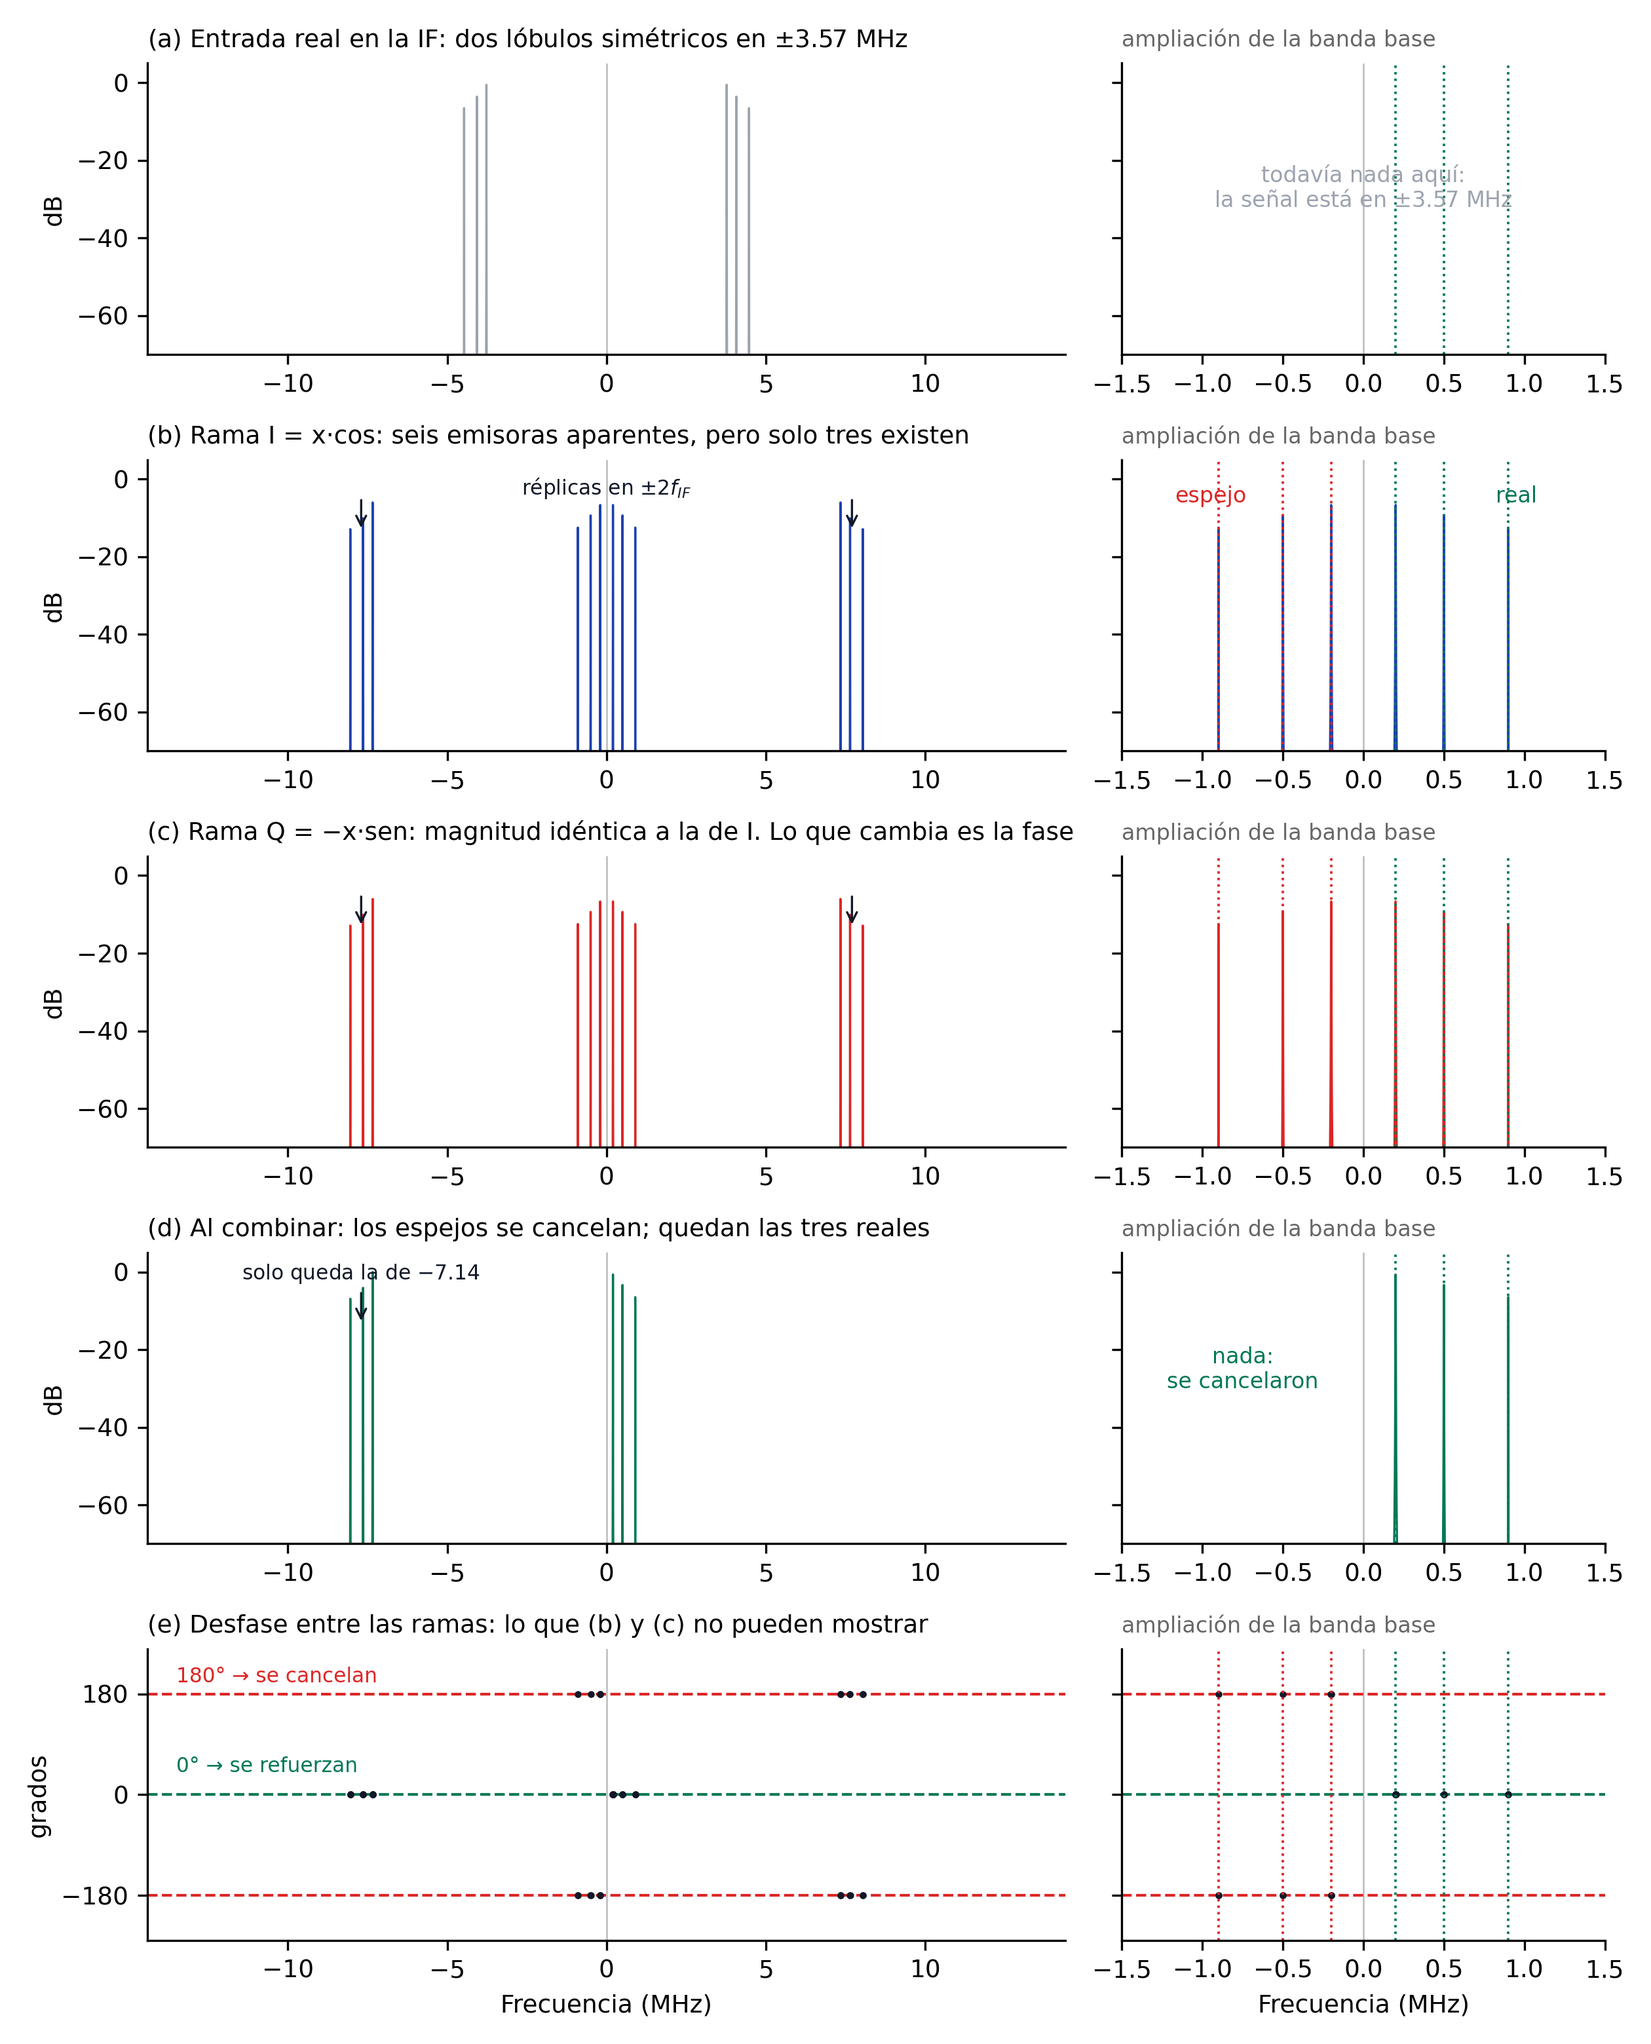
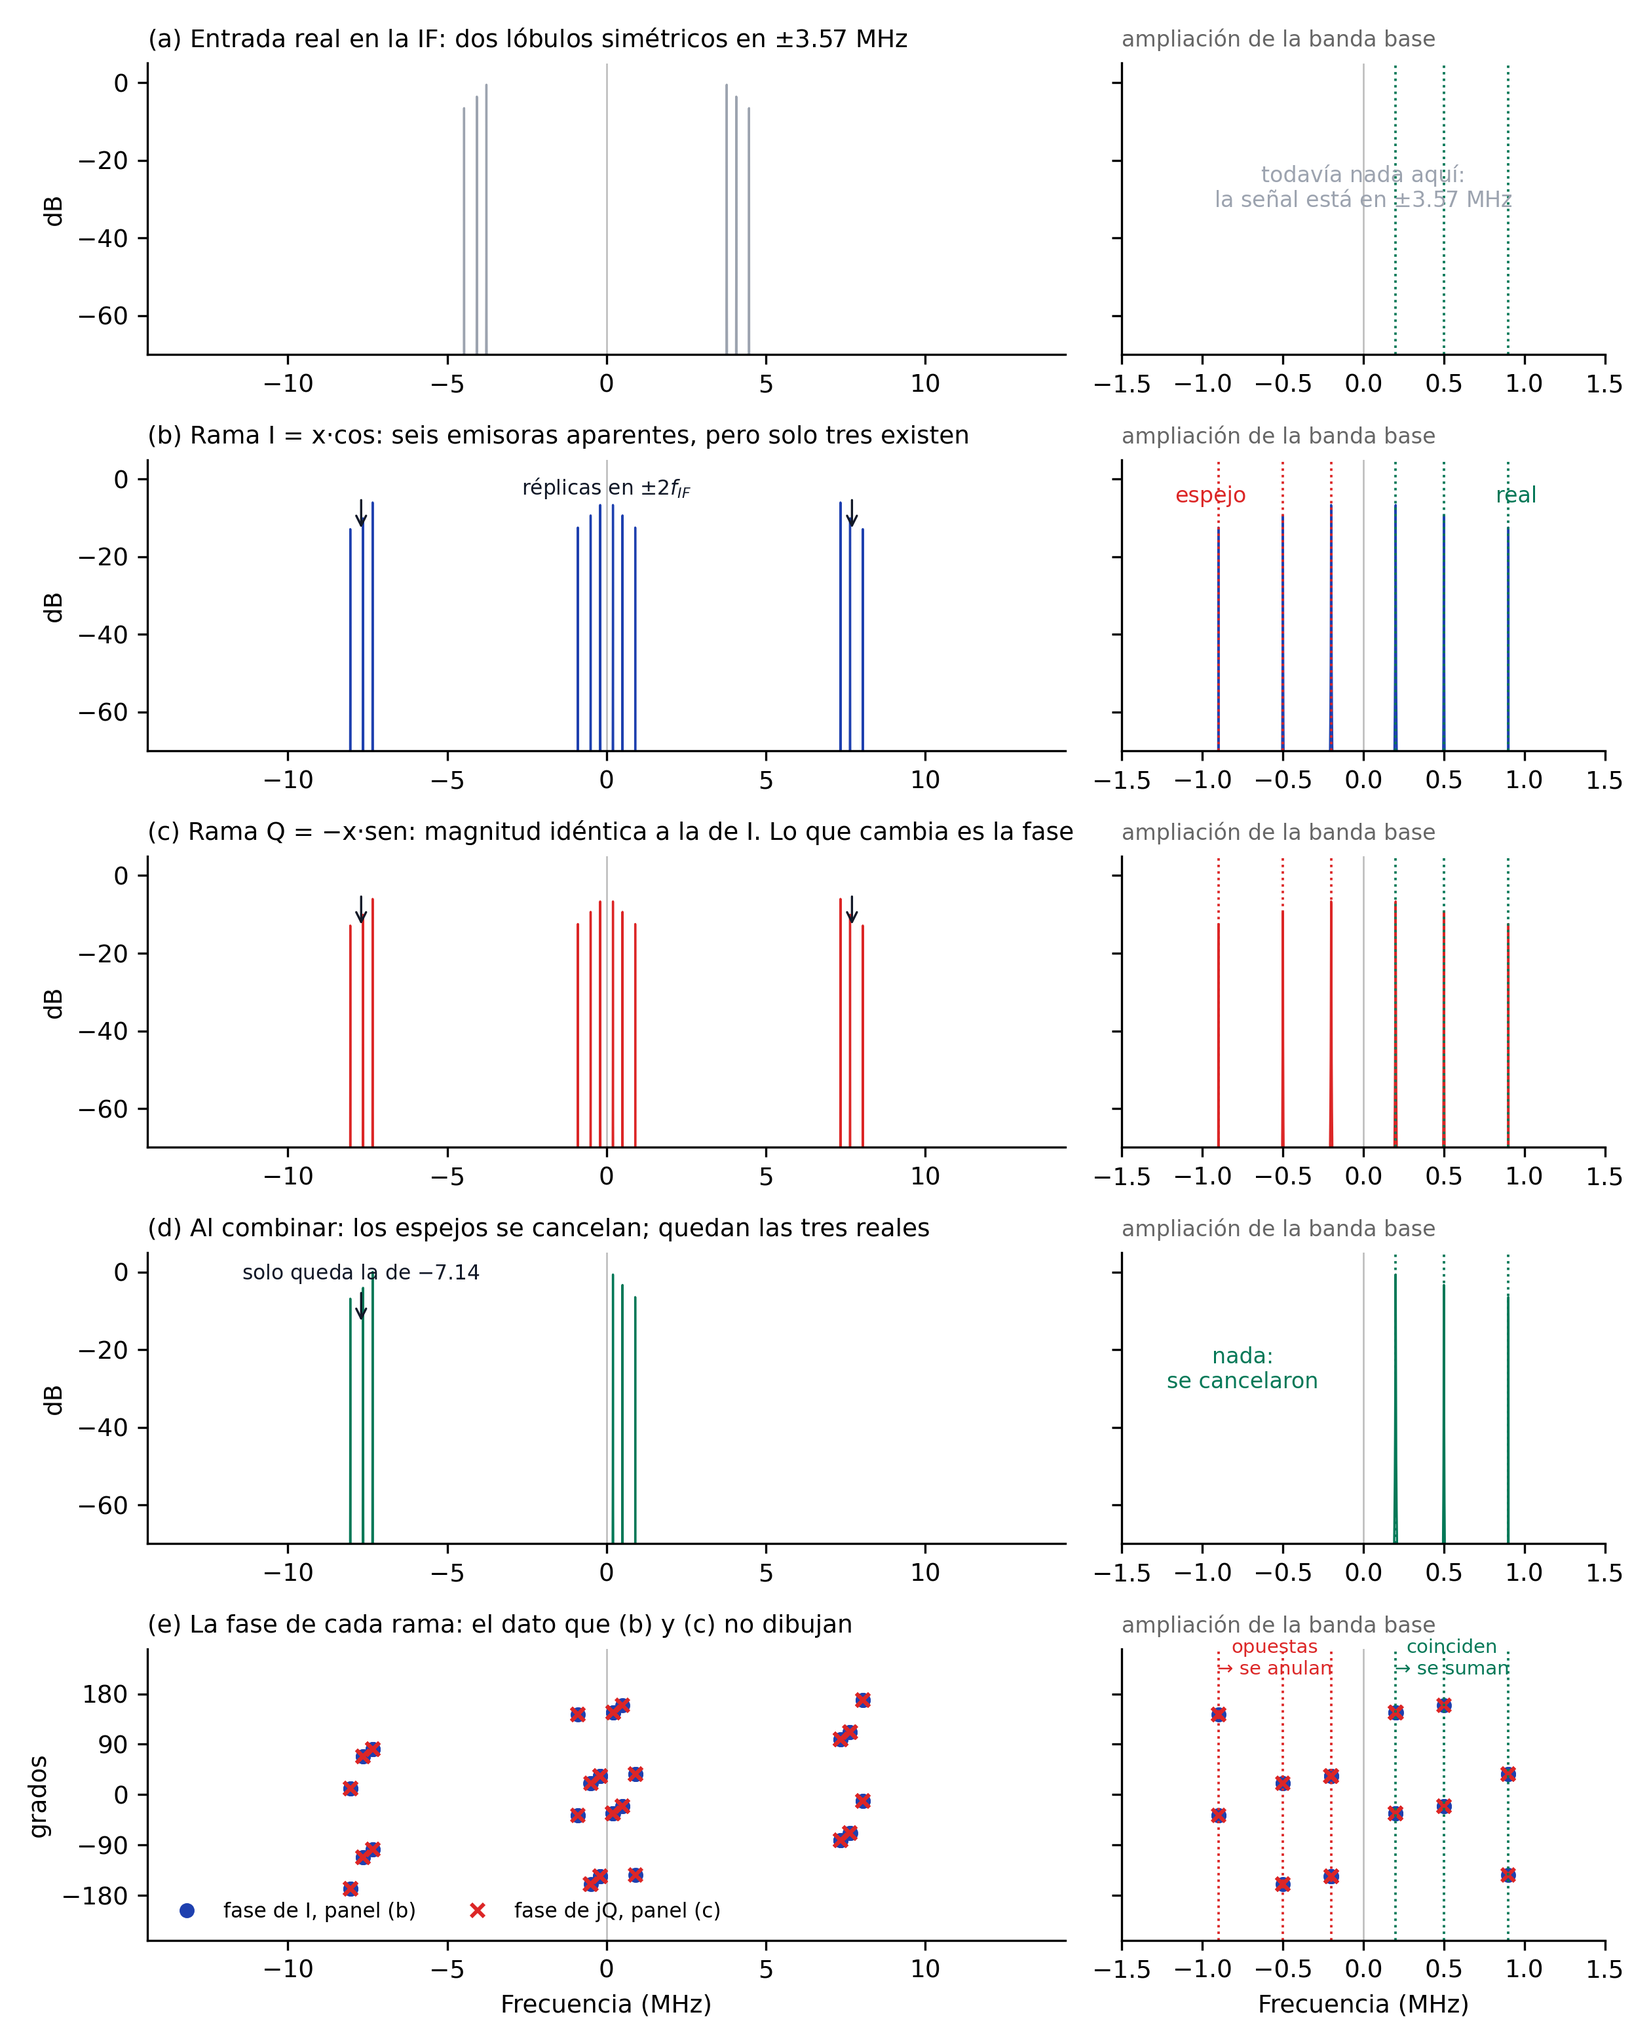
S01: explicar cómo se relaciona cada espectro con la fase, y añadir los fasores
La fila (e) mostraba una resta de fases, y esa resta no aparecía en
ningún otro panel: el lector no tenía forma de rastrear de dónde salía.

Ahora (e) dibuja las dos fases por separado, una serie de puntos por
rama, cada una identificada con el panel del que procede. Donde las
emisoras son reales los dos símbolos se superponen; en los espejos
quedan separados 180 grados.

Figura 13 nueva con los fasores, que es el puente que faltaba entre dos
ángulos y una suma. Las flechas se encadenan punta con cola: en la
emisora real el extremo queda al doble de distancia, en el espejo la
cadena vuelve al origen. Ese extremo es, literalmente, el valor que
dibuja el panel (d).

Renumeradas las figuras 13 a 18 aguas abajo, según AGENTS.md.

diff --git a/docs/sessions/01-introduccion-sdr/figures/gen_cadena_rx.py b/docs/sessions/01-introduccion-sdr/figures/gen_cadena_rx.py
@@ -287,29 +287,30 @@ def fig_ramas_iq():
                                  arrowprops=dict(arrowstyle="->", color=DARK, lw=0.8))
     ax[1, 0].text(0, -4, "réplicas en $\\pm 2f_{IF}$", ha="center", fontsize=7.5, color=DARK)
     ax[3, 0].text(-7.7, -2, "solo queda la de $-7.14$", ha="center", fontsize=7.5, color=DARK)
-    # (e) la fase, que es donde vive la información que las magnitudes no muestran
-    dif = np.degrees(np.angle(1j * E["Q"]) - np.angle(E["I"]))
-    dif = (dif + 180) % 360 - 180
+    # (e) las DOS fases por separado, una por rama: donde coinciden se suman,
+    # donde difieren 180 grados se anulan. No es una resta: son dos cantidades,
+    # cada una perteneciente a uno de los paneles de arriba.
+    fase_I = np.degrees(np.angle(E["I"]))
+    fase_jQ = np.degrees(np.angle(1j * E["Q"]))
     visible = S["I"] > 0.02 * S["I"].max()
     for c, lim in enumerate((14.4, 1.5)):
         a = ax[4, c]
-        a.axhline(0, color=GREEN, lw=1, ls="--")
-        a.axhline(180, color=RED, lw=1, ls="--")
-        a.axhline(-180, color=RED, lw=1, ls="--")
-        a.plot(f[visible], dif[visible], ".", color=DARK, ms=3)
+        a.plot(f[visible], fase_I[visible], "o", color=BLUE, ms=4.5, label="fase de I, panel (b)")
+        a.plot(f[visible], fase_jQ[visible], "x", color=RED, ms=5, mew=1.4, label="fase de jQ, panel (c)")
         a.set_xlim(-lim, lim); a.set_ylim(-260, 260)
-        a.set_yticks([-180, 0, 180])
+        a.set_yticks([-180, -90, 0, 90, 180])
         a.axvline(0, color="#bbb", lw=0.6, zorder=0)
         if c == 0:
             a.set_ylabel("grados")
-            a.text(-13.5, 200, "180° → se cancelan", color=RED, fontsize=7.5)
-            a.text(-13.5, 40, "0° → se refuerzan", color=GREEN, fontsize=7.5)
+            a.legend(fontsize=7.5, frameon=False, loc="lower left", ncol=2)
         else:
             a.set_yticklabels([])
             for o in offsets:
                 a.axvline(+o, color=GREEN, ls=":", lw=0.9)
                 a.axvline(-o, color=RED, ls=":", lw=0.9)
-    ax[4, 0].set_title("(e) Desfase entre las ramas: lo que (b) y (c) no pueden mostrar",
+            a.text(+0.55, 215, "coinciden\n→ se suman", color=GREEN, fontsize=7, ha="center")
+            a.text(-0.55, 215, "opuestas\n→ se anulan", color=RED, fontsize=7, ha="center")
+    ax[4, 0].set_title("(e) La fase de cada rama: el dato que (b) y (c) no dibujan",
                        fontsize=9, loc="left")
     ax[4, 1].set_title("ampliación de la banda base", fontsize=8, loc="left", color="#666")
     for c in range(2):
@@ -319,3 +320,60 @@ def fig_ramas_iq():
 
 
 fig_ramas_iq()
+
+
+# ---------------------------------------------------------------- fasores
+# El puente entre "el espectro vale tanto a esta frecuencia" y "las ramas se suman
+# o se anulan": dibujar esos dos valores como flechas y encadenarlas punta con cola.
+
+def fig_fasores():
+    from matplotlib.lines import Line2D
+
+    f, offsets, S, E = _escena_iq()
+    fig, ax = plt.subplots(1, 2, figsize=(7.8, 4.4))
+    ref = max(abs(E["I"][int(np.argmin(np.abs(f - v)))]) for v in (+0.5, -0.5))
+    for col, (freq, titulo, color) in enumerate((
+        (+0.5, "En $+0.5$ MHz: emisora real", GREEN),
+        (-0.5, "En $-0.5$ MHz: espejo", RED),
+    )):
+        k = int(np.argmin(np.abs(f - freq)))
+        a, b = E["I"][k] / ref, 1j * E["Q"][k] / ref
+        fin = a + b
+        p_ = ax[col]
+        p_.axhline(0, color="#ddd", lw=0.8, zorder=0)
+        p_.axvline(0, color="#ddd", lw=0.8, zorder=0)
+
+        # 1) F{I} desde el origen; 2) jF{Q} desde donde terminó la anterior
+        p_.annotate("", xy=(a.real, a.imag), xytext=(0, 0),
+                    arrowprops=dict(arrowstyle="-|>", color=BLUE, lw=2.6,
+                                    shrinkA=0, shrinkB=0, mutation_scale=19))
+        p_.annotate("", xy=(fin.real, fin.imag), xytext=(a.real, a.imag),
+                    arrowprops=dict(arrowstyle="-|>", color=RED, lw=2.6,
+                                    shrinkA=0, shrinkB=0, mutation_scale=19))
+        p_.plot(0, 0, "o", color=DARK, ms=5, zorder=6)
+        p_.plot(fin.real, fin.imag, "o", color=color, ms=13, zorder=6)
+
+        p_.text(0.5, 0.16,
+                "la cadena acaba lejos del origen:\npanel (d), el doble de largo"
+                if abs(fin) > 0.05 else
+                "la cadena vuelve al origen:\npanel (d), cero",
+                transform=p_.transAxes, ha="center", fontsize=8.5,
+                color=color, fontweight="bold")
+        p_.text(0.5, 0.05, "las dos flechas miden lo mismo: $|I| = |Q|$",
+                transform=p_.transAxes, ha="center", fontsize=7.5, color=DARK)
+
+        p_.set_xlim(-2.5, 2.5); p_.set_ylim(-2.1, 2.1)
+        p_.set_aspect("equal"); p_.set_xticks([]); p_.set_yticks([])
+        p_.set_xlabel("parte real"); p_.set_ylabel("parte imaginaria")
+        p_.set_title(titulo, fontsize=9.5, color=color)
+
+    fig.legend(handles=[
+        Line2D([], [], color=BLUE, lw=2.6, label="$\\mathcal{F}\\{I\\}$, del panel (b)"),
+        Line2D([], [], color=RED, lw=2.6, label="$j\\,\\mathcal{F}\\{Q\\}$, del panel (c)"),
+    ], loc="lower center", ncol=2, frameon=False, fontsize=8.5)
+    fig.suptitle("Las mismas dos longitudes, dos resultados opuestos", fontsize=10)
+    fig.tight_layout(rect=(0, 0.06, 1, 1))
+    save(fig, "cadena-rx-4c-fasores.png")
+
+
+fig_fasores()

diff --git a/docs/sessions/01-introduccion-sdr/index.md b/docs/sessions/01-introduccion-sdr/index.md
@@ -342,7 +342,7 @@ Lo que ocurre en cada fila:
 - **(b)** La rama I traslada ambos grupos. Alrededor de 0 Hz aparecen **seis** emisoras: las tres verdaderas en $+0.2$, $+0.5$ y $+0.9$ MHz, y tres espejos en las posiciones negativas correspondientes. Nada en el espectro distingue unas de otras. Las réplicas en $\pm 2f_{IF}$ son el producto de alta frecuencia que el filtro paso bajo eliminará después.
 - **(c)** La rama Q produce una magnitud **idéntica** a la de I, hasta el último decimal. Si I y Q se diferenciaran en amplitud, bastaría una de las dos.
 - **(d)** Al formar $I+jQ$ los seis lóbulos de banda base se reducen a tres, y son los tres correctos. Los espejos desaparecen; las emisoras reales duplican su amplitud.
-- **(e)** El desfase entre las dos ramas, que es la pieza que (b) y (c) no pueden enseñar. En las emisoras reales vale $0^\circ$ y en los espejos $\pm 180^\circ$.
+- **(e)** La fase de cada rama, que es el dato que (b) y (c) no dibujan. Hay dos series de puntos, una por panel: círculos azules para la fase de $\mathcal{F}\{I\}$ y aspas rojas para la de $j\,\mathcal{F}\{Q\}$. Donde las emisoras son reales, los dos símbolos caen encima uno del otro. En los espejos quedan separados $180^\circ$.
 
 Medido sobre la simulación:
 
@@ -374,6 +374,18 @@ La supresión de los espejos supera los 170 dB, es decir, es exacta salvo por el
     | $-0.5$ MHz | 2641 | 2641 | $180^\circ$ | 0 |
 
     Mismas magnitudes, resultados opuestos. La diferencia está entera en la fase, y por eso la figura incluye la fila (e): sin ella, el paso de (c) a (d) parecería arbitrario.
+
+Queda una última pregunta razonable: la fila (e) da dos ángulos, pero ¿cómo se convierten dos ángulos en una suma que vale el doble o vale cero? La respuesta se ve mejor dibujando esos dos valores como flechas en el plano complejo y encadenándolas punta con cola.
+
+![Dos diagramas de fasores en el plano complejo: en la emisora real las flechas se encadenan y el extremo queda al doble de distancia; en el espejo la cadena regresa al origen](figures/cadena-rx-4c-fasores.png)
+
+**Figura 13.** Suma de las dos ramas como flechas, en una emisora real y en un espejo.
+
+En cada panel, la flecha azul es el valor complejo de $\mathcal{F}\{I\}$ a esa frecuencia, el punto exacto que el panel (b) dibuja como una altura. La flecha roja es $j\,\mathcal{F}\{Q\}$, que es lo que el panel (c) resume en otra altura. Sumar dos números complejos es poner la segunda flecha donde termina la primera, y el punto grande marca dónde acaba la cadena: **ese punto es el valor que dibuja el panel (d)**.
+
+A la izquierda las dos flechas apuntan en la misma dirección, así que la cadena se estira y el extremo queda al doble de distancia del origen. A la derecha apuntan en direcciones opuestas y la cadena regresa exactamente al punto de partida, de modo que el panel (d) dibuja un cero.
+
+Las cuatro flechas de la figura miden lo mismo. Lo único que cambia entre los dos casos es hacia dónde apuntan, y esa dirección es la fase que muestra la fila (e) de la figura anterior.
 
 Las dos columnas centrales son la clave de toda la arquitectura. Como I y Q tienen **la misma magnitud**, la información que distingue una frecuencia positiva de una negativa no está en cuánto vale cada rama, sino en **la fase relativa entre ellas**. El factor $j$ de la suma $I+jQ$ es lo que convierte esa diferencia de fase en una cancelación: donde las dos ramas están en oposición, el resultado se anula; donde coinciden, se refuerza.
 
@@ -408,7 +420,7 @@ flowchart LR
 
 ![Espectro tras filtrar y decimar: la emisora objetivo en 0 Hz y sus vecinas dentro de la ventana de ±1.2 MHz; el ancho observable es fs = 2.4 MHz](figures/cadena-rx-5-decimacion.png)
 
-**Figura 13.** Punto ⑤: filtro y decimador resaltados, con la señal útil dentro de la ventana de ±1.2 MHz.
+**Figura 14.** Punto ⑤: filtro y decimador resaltados, con la señal útil dentro de la ventana de ±1.2 MHz.
 
 El eje representa frecuencia respecto a $f_c$. Solo permanecen la emisora objetivo y las vecinas comprendidas dentro de ±1.2 MHz. La señal compleja no requiere una copia espectral redundante; por eso, el ancho de banda observable es $f_s$.
 
@@ -432,7 +444,7 @@ flowchart LR
 
 ![Salida USB: muestras I y Q como bytes sin signo de 0 a 255, con el cero en 127.5, intercalados](figures/cadena-rx-6-usb.png)
 
-**Figura 14.** Punto ⑥: interfaz USB resaltada y representación de las muestras I/Q como bytes intercalados.
+**Figura 15.** Punto ⑥: interfaz USB resaltada y representación de las muestras I/Q como bytes intercalados.
 
 Cada muestra compleja sale como dos bytes sin signo, primero I y luego Q, con el cero en 127.5. A 2.4 MS/s, el caudal alcanza 4.8 MB/s. GNU Radio o NumPy convierten la secuencia al intervalo de $-1$ a $+1$ mediante $(x-127.5)/127.5$.
 
@@ -712,7 +724,7 @@ Las muestras del curso están en una carpeta compartida de Google Drive:
 
 ![Carpeta samples en Google Drive, con el archivo fm_99p1MHz_2p4Msps_g30.cu8](figures/drive-carpeta-samples.png)
 
-**Figura 15.** Carpeta compartida del curso en Google Drive con la grabación oficial de la sesión.
+**Figura 16.** Carpeta compartida del curso en Google Drive con la grabación oficial de la sesión.
 
 Descarga `fm_99p1MHz_2p4Msps_g30.cu8` y comprueba que llegó íntegro antes de empezar. Son 48 MB y una descarga truncada produce errores confusos más adelante:
 
@@ -944,7 +956,7 @@ El punto que conviene dejar claro es que **ninguna muestra individual contiene u
 
 ![Tres paneles: las senoides de referencia, un bloque de muestras que parece ruido, y su espectro con las emisoras separadas](figures/de-muestras-a-espectro.png)
 
-**Figura 16.** De las muestras al espectro: las senoides de referencia, el bloque crudo y el resultado de compararlos.
+**Figura 17.** De las muestras al espectro: las senoides de referencia, el bloque crudo y el resultado de compararlos.
 
 El panel (a) muestra contra qué se compara. Cada bin $k$ es la senoide que completa **exactamente $k$ vueltas enteras dentro del bloque**, y de ahí sale el espaciado entre bins. Con $N = 2048$ muestras a 2.4 MS/s el bloque dura 853 µs, así que el bin 1 da una vuelta en ese tiempo, es decir 1172 Hz; el bin 853 da 853 vueltas, casi exactamente 1 MHz.
 
@@ -965,7 +977,7 @@ Repitiendo esa operación sobre los 11 718 bloques del archivo y apilando los re
 
 ![Espectrograma de la grabación completa: tres emisoras de FM como bandas verticales a lo largo de diez segundos](figures/espectrograma.png)
 
-**Figura 17.** Espectrograma de los diez segundos completos: frecuencia en el eje horizontal, tiempo en el vertical.
+**Figura 18.** Espectrograma de los diez segundos completos: frecuencia en el eje horizontal, tiempo en el vertical.
 
 Cada fila horizontal es el espectro de un instante; el eje vertical es el tiempo. Se distinguen tres emisoras fuertes en 98.1, 99.1 y 100.1 MHz, cada una de unos 200 kHz de ancho, y su brillo late con el programa de audio que transportan. Las líneas verticales finas y constantes son portadoras piloto y espurias del propio dongle.
 
@@ -973,7 +985,7 @@ Los mismos datos admiten una representación como superficie, con la potencia en
 
 ![Los mismos datos dibujados como superficie tridimensional](figures/superficie3d.png)
 
-**Figura 18.** La misma matriz del espectrograma dibujada como superficie, para comparar legibilidad.
+**Figura 19.** La misma matriz del espectrograma dibujada como superficie, para comparar legibilidad.
 
 Se ve más espectacular y se lee peor: los picos del frente tapan lo que hay detrás y el ojo no compara alturas en perspectiva. El mapa plano contiene exactamente la misma información y permite leer una frecuencia o un instante concretos, y por eso todo receptor real, de GNU Radio a SDR++, muestra una cascada plana y no una superficie.
 
